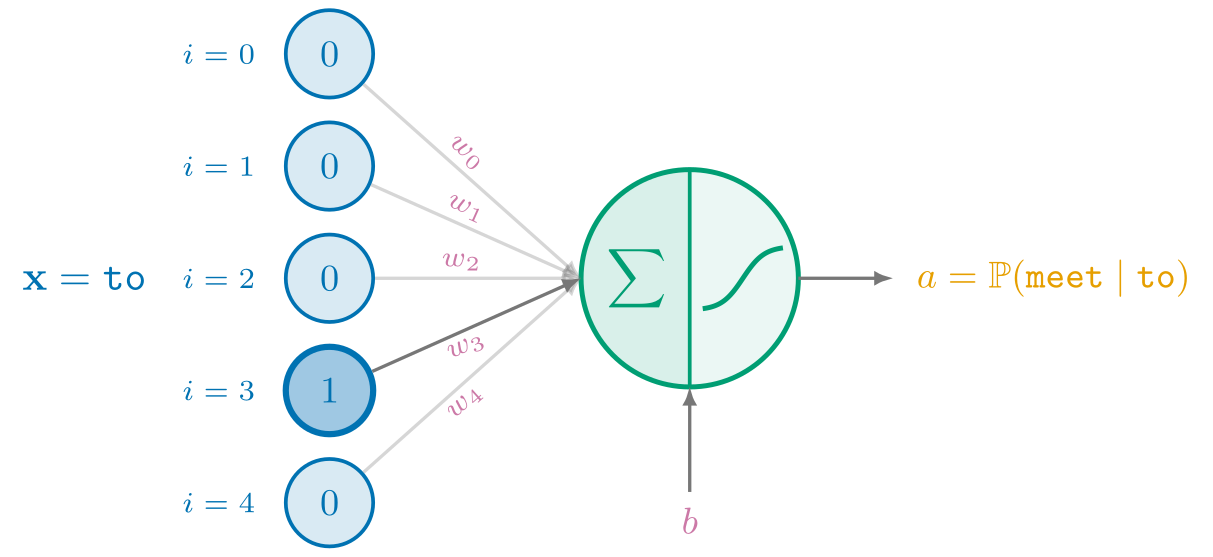
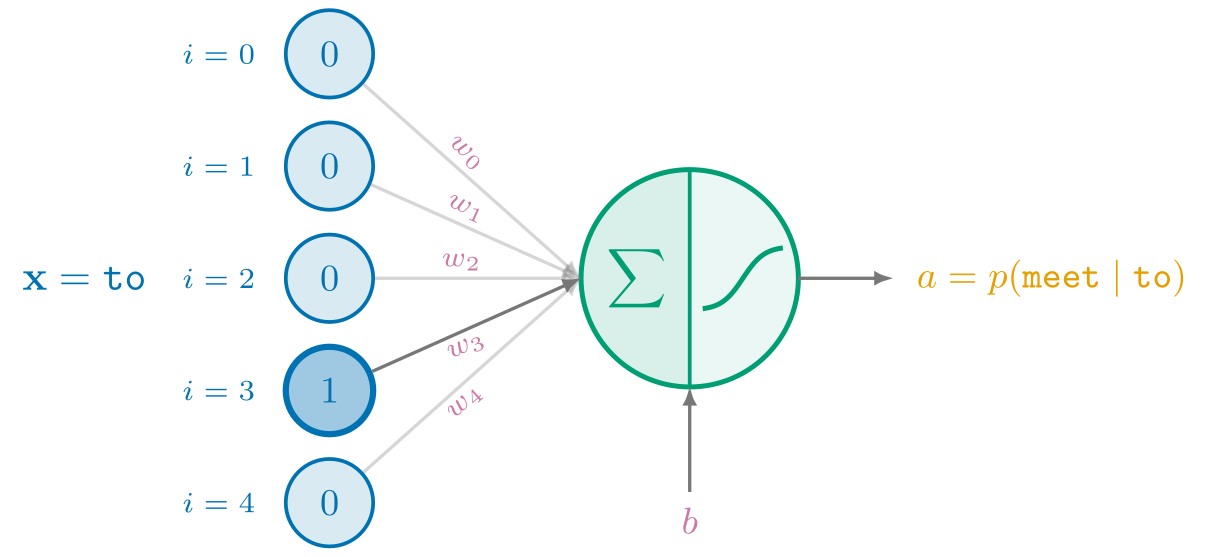
sitp: regenerate tikz ndarray figures for chapter 1.2 showing correspondance with distribution

diff --git a/sitp/theme/css/custom.css b/sitp/theme/css/custom.css
@@ -719,6 +719,12 @@ html.ayu img.probspace {
   content: url("../../assets/probspace_dark.png");
 }
 
+html.coal img.vector,
+html.navy img.vector,
+html.ayu img.vector {
+  content: url("../../assets/vector_dark.png");
+}
+
 html.coal img.tensors,
 html.navy img.tensors,
 html.ayu img.tensors {
@@ -743,10 +749,16 @@ html.ayu img.chain {
   content: url("../../assets/chain_dark.png");
 }
 
-html.coal img.stochastic_matrix,
-html.navy img.stochastic_matrix,
-html.ayu img.stochastic_matrix {
-  content: url("../../assets/stochastic_matrix_dark.png");
+html.coal img.conditional,
+html.navy img.conditional,
+html.ayu img.conditional {
+  content: url("../../assets/conditional_dark.png");
+}
+
+html.coal img.joint,
+html.navy img.joint,
+html.ayu img.joint {
+  content: url("../../assets/joint_dark.png");
 }
 
 html.coal img.neuron,

diff --git a/sitp/src/1.md b/sitp/src/1.md
@@ -386,7 +386,7 @@ as opposed to a **continuous random variable** with a **probability density func
 
 #### 1.1.2 Probability as Array Programming
 
-<img class="tensors" src="./assets/tensors.png" alt="" style="display: block; margin: 0 auto;">
+<img class="vector" src="./assets/vector.png" alt="" style="display: block; margin: 0 auto;">
 
 You may have also noticed
 that the output distribution is not a vanilla Python list, but rather one initialized with [`np.array`](https://numpy.org/doc/stable/reference/generated/numpy.array.html#numpy.array),
@@ -641,6 +641,10 @@ In the case of (probabilistic) language modeling, the primary joint distribution
 > <img class="owl" src="./assets/owl.png" alt="" style="float: left; width: 100px; margin: 0 1em 0.5em 0;"> Note with the random variables being modeled the way they are (that is, *with* order) that the joint $p(w_1,\dots, w_t)$ is commutative. For instance, with $n:=2$, $p(w_1, w_2) = p(w_2,w_1)$. For instance, semantically speaking, $p(w1=\text{Hello},w_2=\text{world})=p(w_2=\text{world}, w1=\text{Hello})$ is saying that the probability of the first word being "hello" and the second word being "world" is equal to the probability of the second word being "world" and the first word being "hello". This holds more generally for any permutation of $w_1, w_2, \dots, w_t$. <br style="clear: both;">
 
 With us defining the notion of a joint probability as a multidimensional array, it's probably no surprise that the joint distribution $p_{\mathbf{w}}(\mathbf{w})$ corresponds to the `np.ndarray` with `.shape` `(V,...,V)` where `.ndim` is `t`. That is, `.shape` is a `t`-lengthed tuple.
+
+<img class="tensors" src="./assets/tensors.png" alt="" style="display: block; margin: 0 auto;">
+
+
 
 $p_{W,H}: V^{*} \times V \to [0,1]$
 
